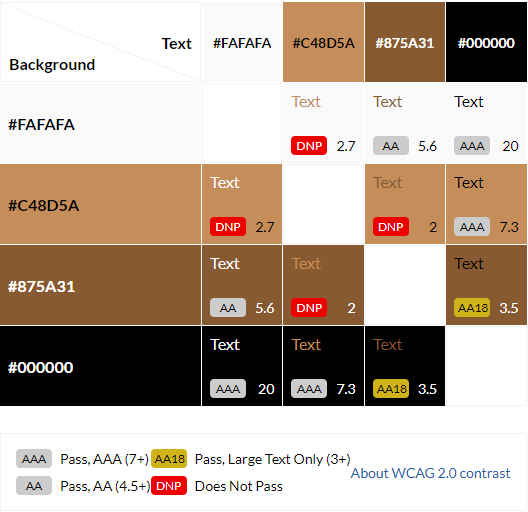
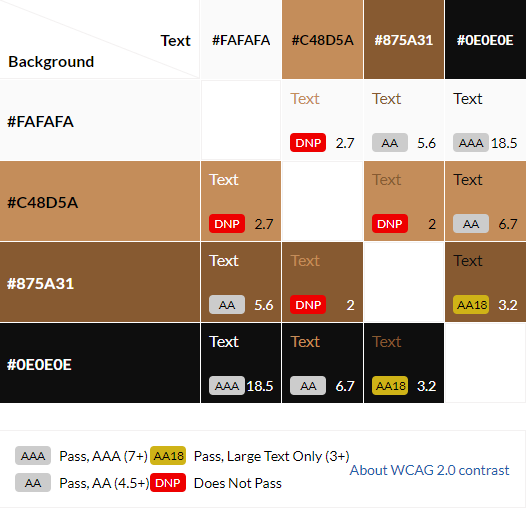
DOCS: update colour palette

diff --git a/README.md b/README.md
@@ -64,7 +64,7 @@ In order to organise my thoughts and provide a basic design scheme to work with,
 
 ## Colour Palette
 
-I took inspiration from the colours of a classic wooden chess set and generated a colour palette that will be used throughout the site for consistency. It is intended to be elegant, understated and modern. I decided to use the off-white #fafafa to make the site's appearance less harsh.  
+I took inspiration from the colours of a classic wooden chess set and generated a colour palette that will be used throughout the site for consistency. It is intended to be elegant, understated and modern. I decided to use the off-white #fafafa and off-black #0e0e0e to make the site's appearance less harsh.  
 I then ran these colours through [Contrast Grid](https://contrast-grid.eightshapes.com/?version=1.1.0&background-colors=&foreground-colors=%23fafafa%0D%0A%23c48d5a%0D%0A%23875a31%0D%0A%23000000&es-color-form__tile-size=compact&es-color-form__show-contrast=aaa&es-color-form__show-contrast=aa&es-color-form__show-contrast=aa18&es-color-form__show-contrast=dnp) to ensure that the site has sufficient contrast for accessibility.
 
 ![A colour palette consisting of white, black, and medium browns](docs/images/colour-palette.png)
